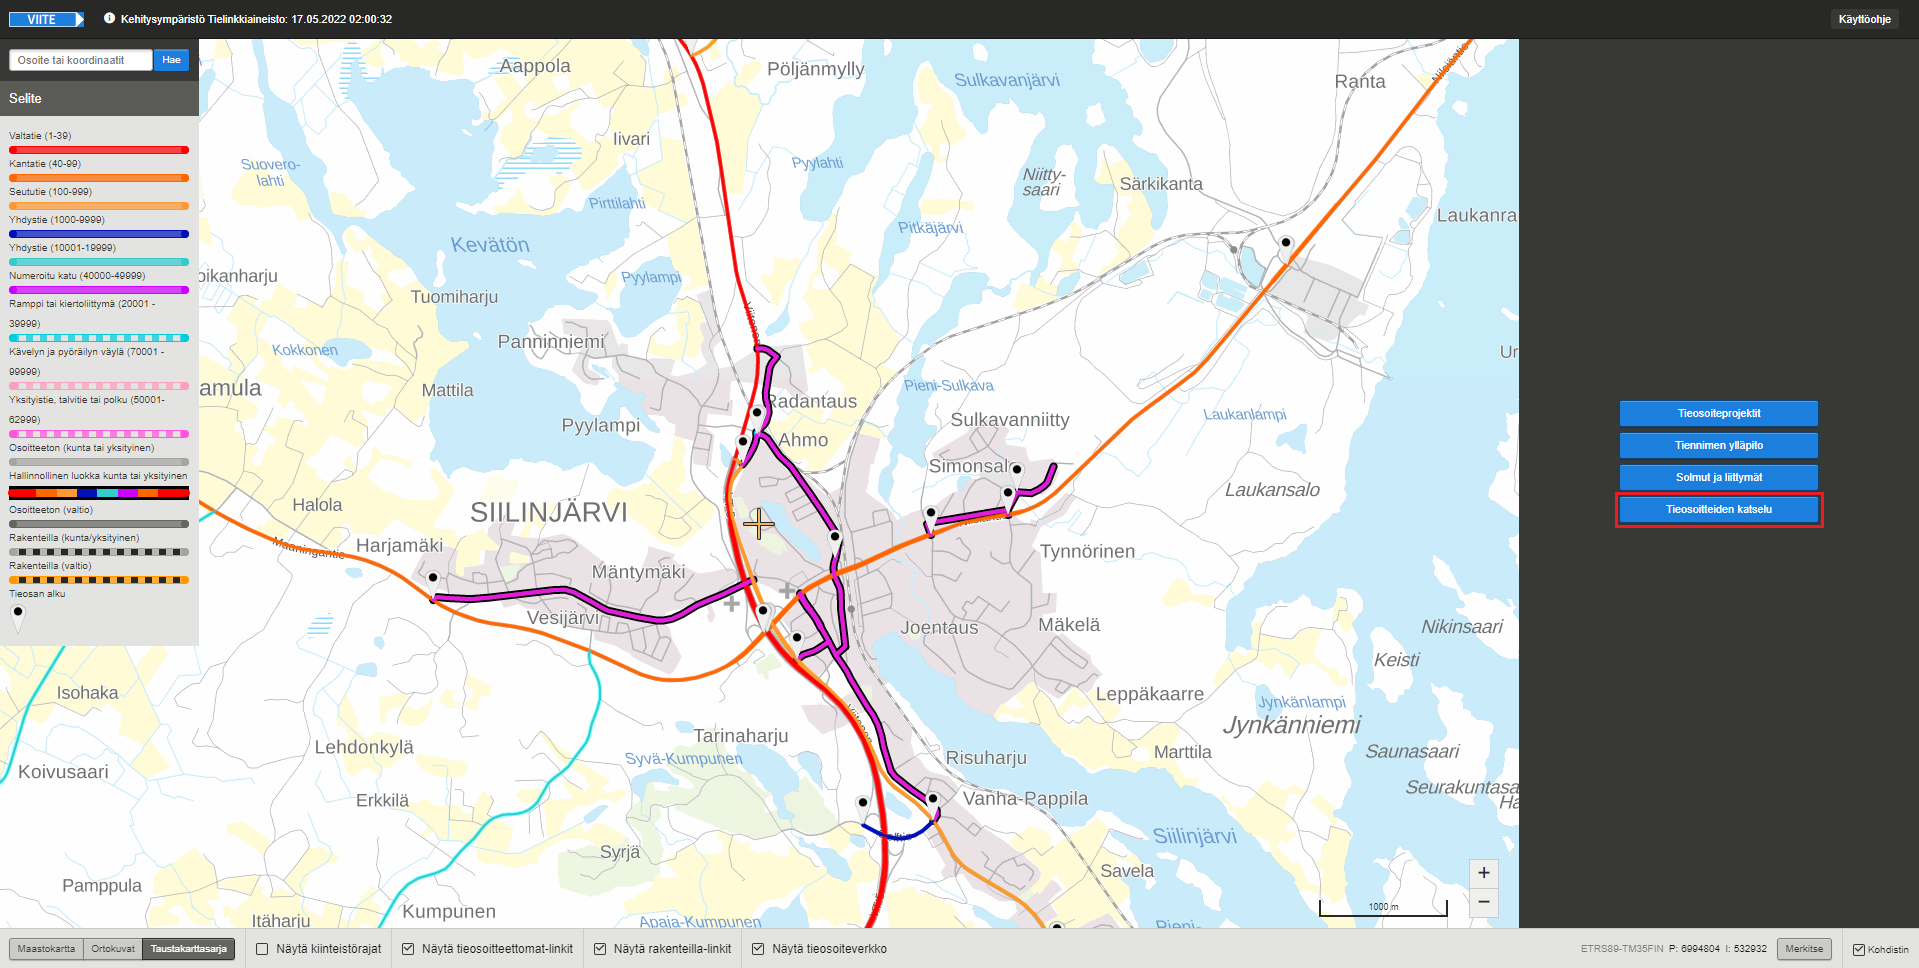
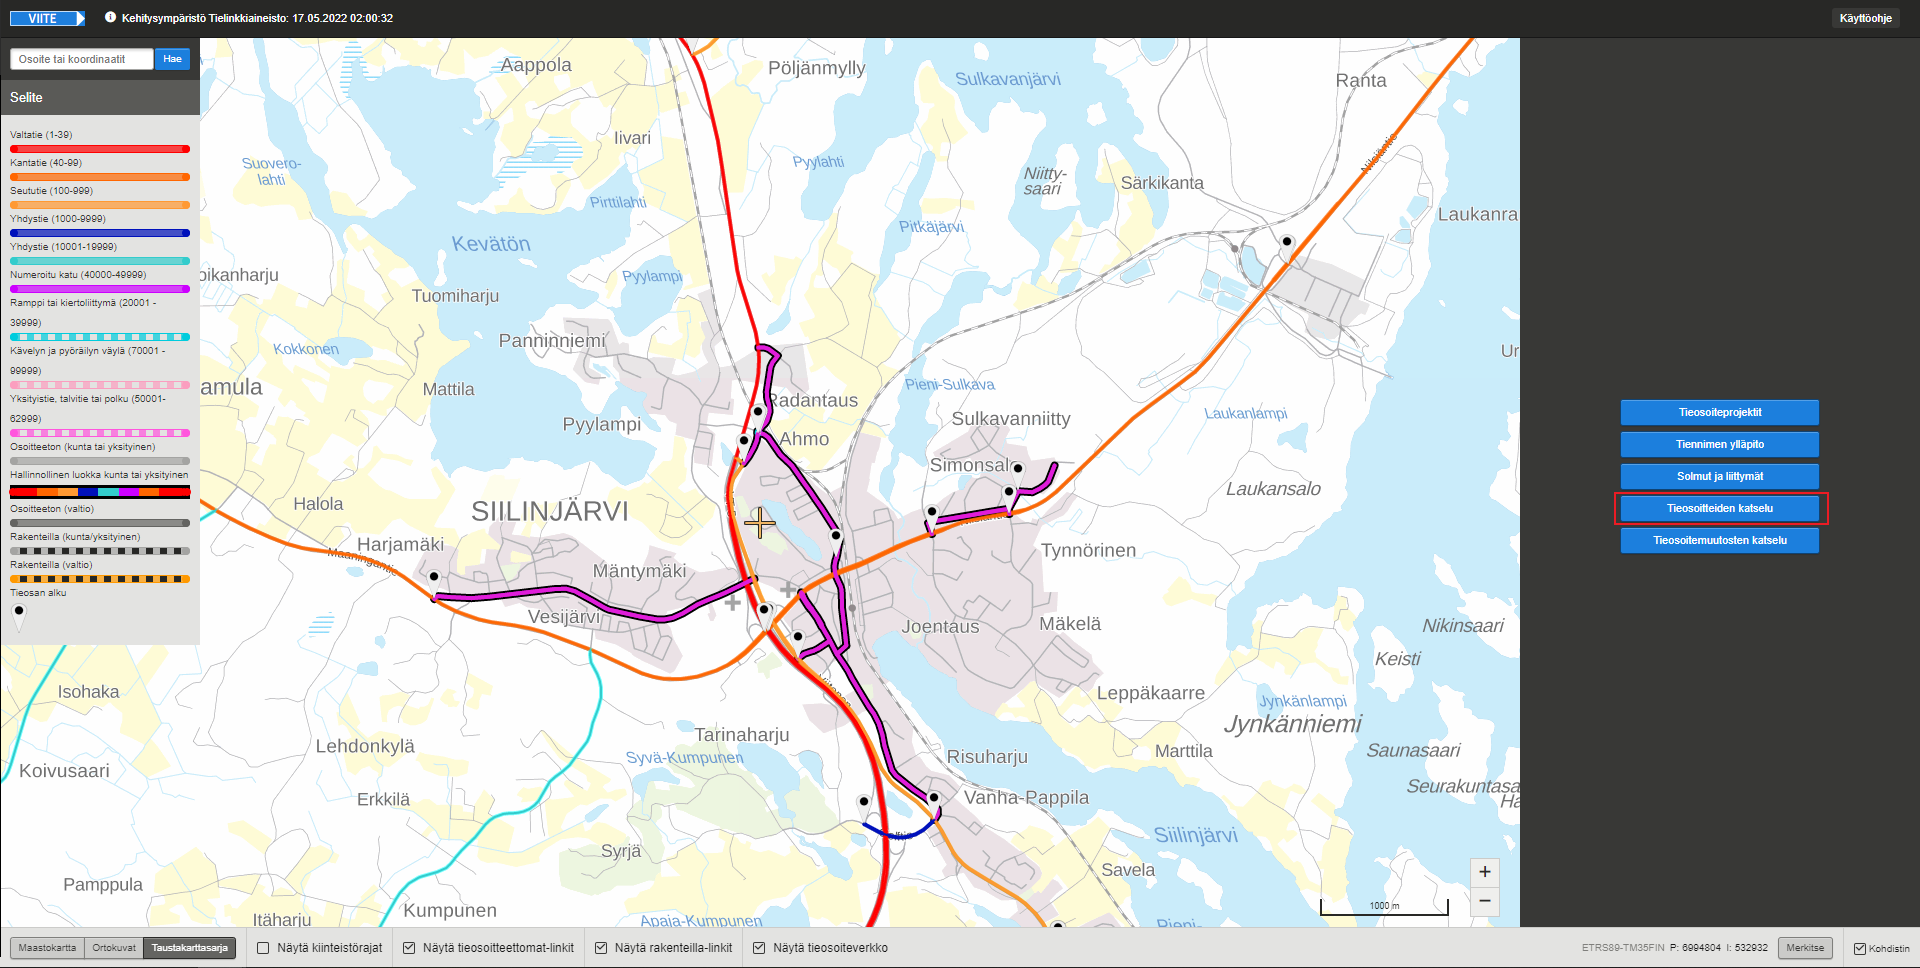
VIITE-2904 add road address changes browser to manual (#1334)
* VIITE-2904 add road address changes browser to manual

diff --git a/viite-UI/src/view/RoadAddressBrowserForm.js b/viite-UI/src/view/RoadAddressBrowserForm.js
@@ -11,7 +11,7 @@
                     '</select>' +
                 '</div>' +
                 '<div class="input-container"><label class="control-label-small">Alkupvm</label> <input type="text" class="road-address-browser-date-input" id="roadAddrChangesStartDate"required/></div>' +
-                '<div class="input-container"> <b style="margin-top: 20px"> - </b></div>' +
+                '<div class="input-container"> <b style="margin-top: 25px"> - </b></div>' +
                 '<div class="input-container"><label class="control-label-small">Loppupvm</label> <input type="text" class="road-address-browser-date-input" id="roadAddrChangesEndDate" /></div>' +
                 '<div class="input-container">' +
                     '<label class="control-label-small">Ely</label>' +

diff --git a/viite-UI/src/view/RoadAddressChangesBrowserWindow.js b/viite-UI/src/view/RoadAddressChangesBrowserWindow.js
@@ -8,7 +8,7 @@
         const roadAddressChangesBrowserHeader = $(
             '<div class="road-address-browser-modal-header">' +
                 '<p>Tieosoitemuutosten katselu</p>' +
-                '<a href="" target="_blank">' + // TODO add link to manual, once manual is done
+                '<a href="manual/index.html#!index.md#11_Tieosoitemuutosten_katselu_-ty%C3%B6kalu" target="_blank">' +
                     '<button class="btn-manual" title="Avaa käyttöohje">' +
                         '<i class="fas fa-question"></i>' +
                     '</button>' +

diff --git a/viite-UI/manual/index.md b/viite-UI/manual/index.md
@@ -962,3 +962,63 @@ _Kuva 10.7: Tiennimet -hakutulos_
 ![Excel -hakutulos](k79.PNG)
 
 _Kuva 10.8: Viite tarjoaa pelkän Excel-tiedoston latausmahdollisuuden mikäli hakutulos on liian suuri_
+
+
+11 Tieosoitemuutosten katselu -työkalu
+--------------------------
+
+Tieosoitemuutosten katselu -työkalu avataan klikkaamalla karttanäkymän oikeassa reunassa sijaitsevaa Tieosoitemuutosten katselu -painiketta.
+
+![Tieosoitemuutosten katselu -työkalun avaus](k81.png)
+
+_Kuva 11: Tieosoitemuutosten katselu -työkalun avaus_
+
+11.1 Tieosoitemuutosten haku
+--------------------------
+
+![Tieosoitemuutosten hakuehdot](k82.png)
+
+_Kuva 11.1: Tieosoitemuutosten hakuehdot_
+
+#### Hakuehdot
+
+Hakuehdoista alkupäivämäärä on pakollinen tieto
+
+(1) Rajausperuste:    
+  - Projektin hyväksymispvm: Alku- ja loppupvm -kentät rajaavat hakutuloksia projektin hyväksymispäivämäärän perusteella    
+  - Muutoksen voimaantulopvm: Alku- ja loppupvm -kentät rajaavat hakutuloksia tieosoitemuutoksen voimaantulopäivämäärän perusteella   
+
+(2) Alkupvm: Karsitaan alkupvm -kenttää vanhemmat tieosoitemuutokset pois hakutuloksista   
+(3) Loppupvm: Karsitaan loppupvm -kenttää uudemmat tieosoitemuutokset pois hakutuloksista   
+(4) Ely: Haetaan vain annetun ELYn tieosoitemuutoksia   
+(5) Tie: Rajataan haku annetun tienumeron mukaisiin tieosoitemuutoksiin  
+(6) Aosa: Pienin tieosanumero jolta haettavia tieosoitemuutoksia haetaan   
+(7) Losa: Suurin tieosanumero jolta haettavia tieosoitemuutoksia haetaan
+
+Huom! Haku saattaa kestää useita sekunteja haettaessa pelkästään alkupäivämäärällä (Viite hakee kaikki tieosoitemuutokset annetun alkupäivämäärän jälkeiseltä ajalta)
+
+Viite palauttaa hakuehtojen perusteella listan tieosoitemuutoksia.
+
+Hakutulokset on mahdollista ladata Excel-taulukkona klikkaamalla "Lataa Excelinä" -painiketta.
+
+Jos hakutulos on liian suuri (>100 riviä) tarjoaa Viite pelkän Excel-latausmahdollisuuden.
+
+11.2 Esimerkkejä tieosoitemuutosten hakutuloksista:
+--------------------------
+
+![Tieosoitemuutos_hakutulos](k84.PNG)
+
+_Kuva 11.2: Hakutulos haettaessa tieosoitemuutoksia jotka ovat syntyneet projektissa jonka hyväksymispäivämäärä on myöhempi kuin 1.4.2022 ja projektimuutoksen jälkeinen tienumero on 8_
+
+![Tieosoitemuutos_hakutulos eri päivämääräkohteella](k85.PNG)
+
+_Kuva 11.3: Hakutulos haettaessa tieosoitemuutoksia joiden voimaantulopäivämäärä on myöhempi kuin 1.4.2022 ja projektimuutoksen jälkeinen tienumero on 8_
+
+
+Ylläolevista kuvista voi huomata, että samoilla parametreilla voi saada aikaiseksi eri hakutuloksia vaihtamalla päivämääräkenttien kohdetta
+
+
+![Excel -hakutulos](k86.png)
+
+_Kuva 11.4: Viite tarjoaa pelkän Excel-tiedoston latausmahdollisuuden mikäli hakutulos on liian suuri_
+
